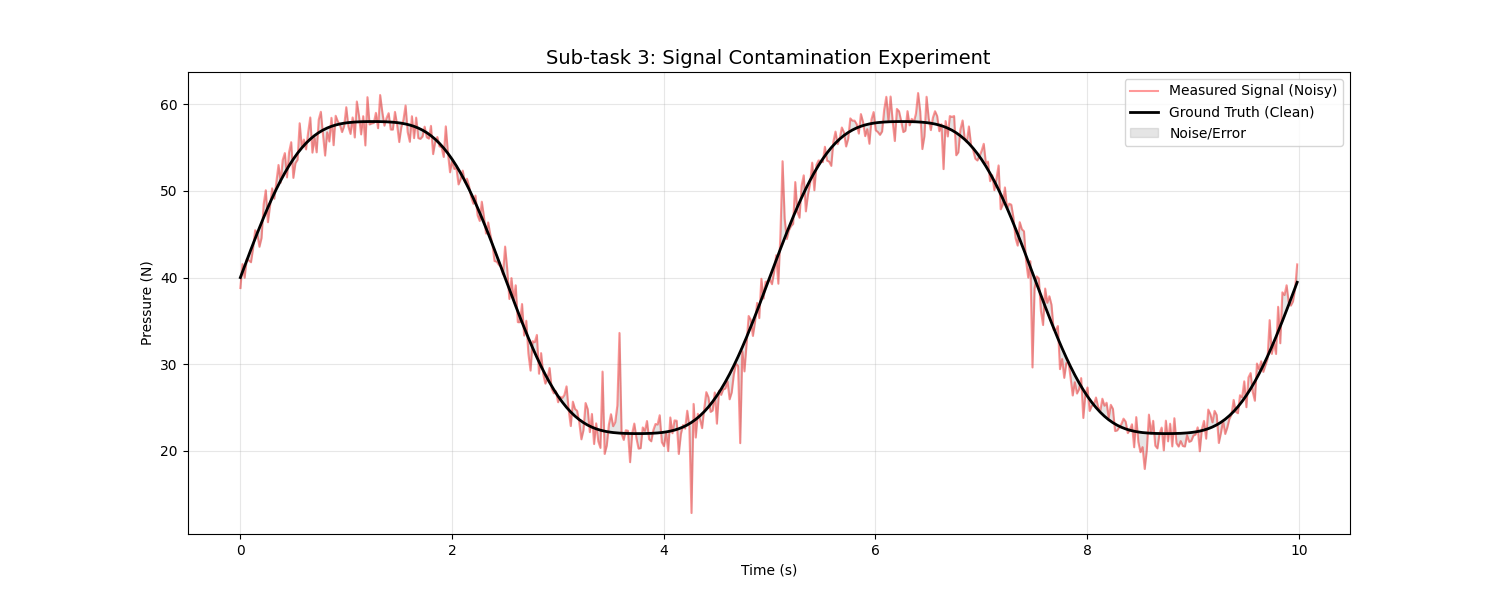
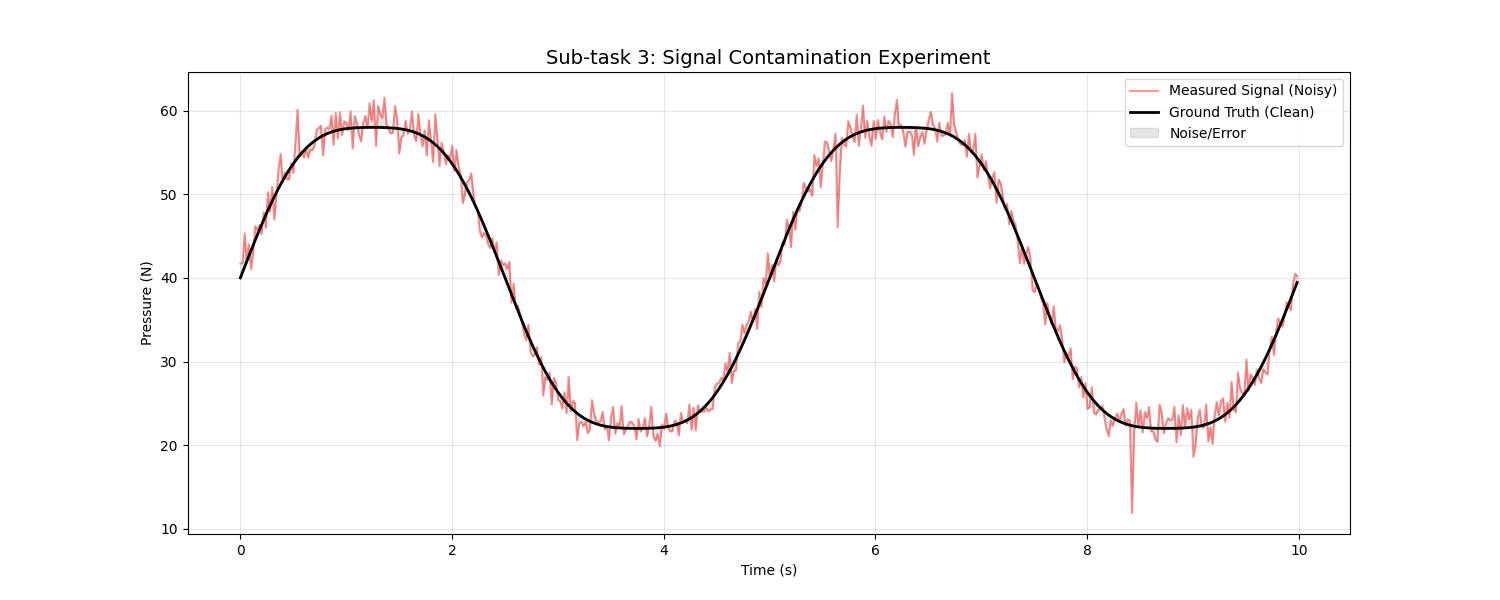
Add CSV I/O utilities and metrics to Simulator.py
Introduced functions for saving and loading signals to CSV with standardized formatting and precision, and added a function to calculate MSE. Updated the simulation script to save results to 'pressure_sim.csv'. Added new simulation and result files for iteration0.2 and iteration0.5.

diff --git a/iteration0.5/Simulator.py b/iteration0.5/Simulator.py
@@ -1,0 +1,110 @@
+from typing import Tuple
+import matplotlib.pyplot as plt
+import numpy as np
+import pandas as pd
+import os
+from scipy.signal import medfilt
+
+def calculate_metrics(clean, noisy):
+    """
+    计算跑分指标：MSE (越小越好)
+    """
+    mse = np.mean((clean - noisy) ** 2)
+    return mse
+
+def save_plot(filename="anomaly_detection_v1.png"):
+    plt.savefig(filename, dpi=300, bbox_inches="tight")
+    print(f"图表已保存至: {filename}")
+
+def load_signal_from_csv(filename="pressure_sim.csv"):
+    """
+    规范化读取函数
+    """
+    if not os.path.exists(filename):
+        print(f"❌ 错误：文件 {filename} 不存在")
+        return None
+    df = pd.read_csv(filename)
+    required_cols = ["timestamp", "clean_signal", "noisy_signal"]
+    if all(col in df.columns for col in required_cols):
+        print(f"📖 数据读取成功，样本数: {len(df)}")
+        return df
+    else:
+        print("❌ 错误：文件格式与规范不符")
+        return None
+
+# 1. 加载数据
+df = load_signal_from_csv("pressure_sim.csv")
+
+if df is not None:
+    # --- 0.2 阶段：平滑滤波 ---
+    window_size = 15
+    # 使用滑动平均作为基准线
+    df['filter_ma'] = df['noisy_signal'].rolling(window=window_size, center=True, min_periods=1).mean()
+
+    # --- 0.3 阶段：异常检测 (3-Sigma 准则) ---
+    # 1. 计算滑动标准差 (Rolling Standard Deviation)
+    # 标准差反映了局部噪声的剧烈程度
+    df['rolling_std'] = df['noisy_signal'].rolling(window=window_size, center=True, min_periods=1).std()
+
+    # 2. 计算动态上下限
+    # 均值 +/- 3倍标准差：覆盖了 99.73% 的正常数据波动
+    df['upper_bound'] = df['filter_ma'] + 3 * df['rolling_std']
+    df['lower_bound'] = df['filter_ma'] - 3 * df['rolling_std']
+
+    # 3. 判定异常点
+    df['is_anomaly'] = (df['noisy_signal'] > df['upper_bound']) | (df['noisy_signal'] < df['lower_bound'])
+    anomaly_count = df['is_anomaly'].sum()
+
+    # 跑分评价
+    mse_raw = calculate_metrics(df['clean_signal'], df['noisy_signal'])
+    mse_ma = calculate_metrics(df['clean_signal'], df['filter_ma'])
+
+    # --- 结果可视化 ---
+    plt.figure(figsize=(15, 10))
+
+    # 子图1 ：原始信号、滤波信号与 3-Sigma 边界
+    plt.subplot(2, 1, 1)
+    view_slice = slice(0, 400) # 查看前 400 个点
+
+    plt.plot(df['timestamp'][view_slice], df['noisy_signal'][view_slice], color='red', alpha=0.15, label="Raw Noisy")
+    plt.plot(df['timestamp'][view_slice], df['clean_signal'][view_slice], color='black', lw=2, label="Ground Truth")
+    plt.plot(df['timestamp'][view_slice], df['filter_ma'][view_slice], color='blue', alpha=0.8, label=f"MA 基准 (window={window_size})")
+
+    # 绘制 3-Sigma 置信区间（灰色阴影）
+    plt.fill_between(df['timestamp'][view_slice],
+                     df['lower_bound'][view_slice],
+                     df['upper_bound'][view_slice],
+                     color='gray', alpha=0.2, label="3-Sigma Confidence Range")
+
+    # 标记检测到的异常点 (红色的 X)
+    anomalies_in_slice = df[view_slice][df[view_slice]['is_anomaly']]
+    plt.scatter(anomalies_in_slice['timestamp'], anomalies_in_slice['noisy_signal'],
+                color='darkred', marker='x', s=60, label=f"Detected Anomalies ({anomaly_count} total)")
+
+    plt.title(f"Stage 0.3: Anomaly Detection (3-Sigma Rule)\nTotal Anomalies: {anomaly_count} ({(anomaly_count/len(df))*100:.2f}%)")
+    plt.legend(loc='upper right')
+    plt.grid(alpha=0.3)
+
+    # 子图2 ：残差分析
+    plt.subplot(2, 1, 2)
+    plt.plot(df['timestamp'][view_slice], df['filter_ma'][view_slice] - df['clean_signal'][view_slice], color="blue", alpha=0.6, label="MA Error")
+    plt.axhline(0, color="black", linestyle="--")
+    plt.title("Residual Analysis (MA - Clean)")
+    plt.legend()
+    plt.grid(alpha=0.3)
+
+    plt.tight_layout()
+    save_plot("anomaly_detection_v1.png")
+    plt.show()
+
+    print(f"📊 异常检测报告:")
+    print(f"样本总数: {len(df)}")
+    print(f"检测到异常点: {anomaly_count}")
+    print(f"异常比例: {(anomaly_count/len(df))*100:.2f}% (理论值约为 0.27%)")
+    print(f"当前 MSE: {mse_ma:.4f}")
+
+# 引入动态阈值**：使用了 `rolling().std()` 计算滑动标准差。这意味着阈值会随着信号的波动而自动调整。
+# 2.  **可视化增强**：
+#     *   **灰色阴影区**：直观展示了算法认为的“安全范围”。
+#     *   **红色 X 标记**：精准定位了那些跳出安全范围的“坏分子”。
+# 3.  **统计输出**：增加了异常比例的计算，方便验证算法的严苛程度

diff --git a/iteration0.2/Simulator.py b/iteration0.2/Simulator.py
@@ -1,9 +1,44 @@
 from typing import Tuple
-
 import matplotlib.pyplot as plt
 import numpy as np
 import pandas as pd
+import os
+def calculate_metrics(clean, noisy):
+    """
+    计算跑分指标：MSE (越小越好)
+    """
+    mse = np.mean((clean - noisy) ** 2)
+    return mse
 
+
+def save_signal_to_csv(df, filename="pressure_sim.csv"):
+    """
+    规范化写入函数：确保列名和精度统一
+    """
+    # 强制保留 6 位小数，确保 50Hz 或更高频率下的时间戳不丢失精度
+    df.to_csv(filename, index=False, float_format="%.6f")
+    print(f"✅ 数据已写入磁盘: {os.path.abspath(filename)}")
+
+
+def load_signal_from_csv(filename="pressure_sim.csv"):
+    """
+    规范化读取函数：后续算法处理的起点
+    """
+    if not os.path.exists(filename):
+        print(f"❌ 错误：文件 {filename} 不存在")
+        return None
+
+    # 读取数据
+    df = pd.read_csv(filename)
+
+    # 验证关键列是否存在 (这是工程鲁棒性的体现)
+    required_cols = ["timestamp", "clean_signal", "noisy_signal"]
+    if all(col in df.columns for col in required_cols):
+        print(f"📖 数据读取成功，样本数: {len(df)}")
+        return df
+    else:
+        print("❌ 错误：文件格式与规范不符")
+        return None
 
 class MassageChairSimulator:
     """
@@ -166,6 +201,7 @@ plt.grid(True, alpha=0.3)
 plt.savefig("signal_contamination.png")
 plt.show()
 
+save_signal_to_csv(df_sim,"pressure_sim.csv")
 # 计算mse 初始误差
 inital_mse = np.mean((df_sim["noisy_signal"] - df_sim["clean_signal"]) ** 2)
 print(f"Initial MSE: {inital_mse:.4f}")

diff --git a/iteration0.5/sim_Simulator.py b/iteration0.5/sim_Simulator.py
@@ -1,0 +1,34 @@
+#。手动在数据中插入 10 个巨大的脉冲（Spikes），模拟传感器突然失灵或受到强烈干扰的情况。
+
+# 1. 加载数据
+df = load_signal_from_csv("pressure_sim.csv")
+
+if df is not None:
+    # --- 任务 0.3b 投毒逻辑 (Outlier Injection) ---
+    # 随机选择 10 个位置，注入远超正常范围的脉冲噪声
+    np.random.seed(42) # 保证实验可复现
+    poison_indices = np.random.choice(df.index[50:-50], size=10, replace=False) # 避开边缘
+
+    # 注入偏离均值 20-50 个单位的巨型跳变
+    for idx in poison_indices:
+        spike = np.random.uniform(20, 50) * np.random.choice([-1, 1])
+        df.loc[idx, 'noisy_signal'] += spike
+
+    print(f"☣ 投毒成功：已手动注入 {len(poison_indices)} 个异常脉冲")
+
+    # --- 0.2 阶段：平滑滤波 ---
+    window_size = 15
+    df['filter_ma'] = df['noisy_signal'].rolling(window=window_size, center=True, min_periods=1).mean()
+
+    # --- 0.3 阶段：异常检测 (3-Sigma 准则) ---
+    # 计算滑动统计量
+    df['rolling_std'] = df['noisy_signal'].rolling(window=window_size, center=True, min_periods=1).std()
+
+    # 定义 3-Sigma 边界
+    df['upper_bound'] = df['filter_ma'] + 3 * df['rolling_std']
+    df['lower_bound'] = df['filter_ma'] - 3 * df['rolling_std']
+
+    # 判定异常点
+    df['is_anomaly'] = (df['noisy_signal'] > df['upper_bound']) | (df['noisy_signal'] < df['lower_bound'])
+    anomaly_count = df['is_anomaly'].sum()
+    # ... 后续绘图逻辑保持不变 ...
